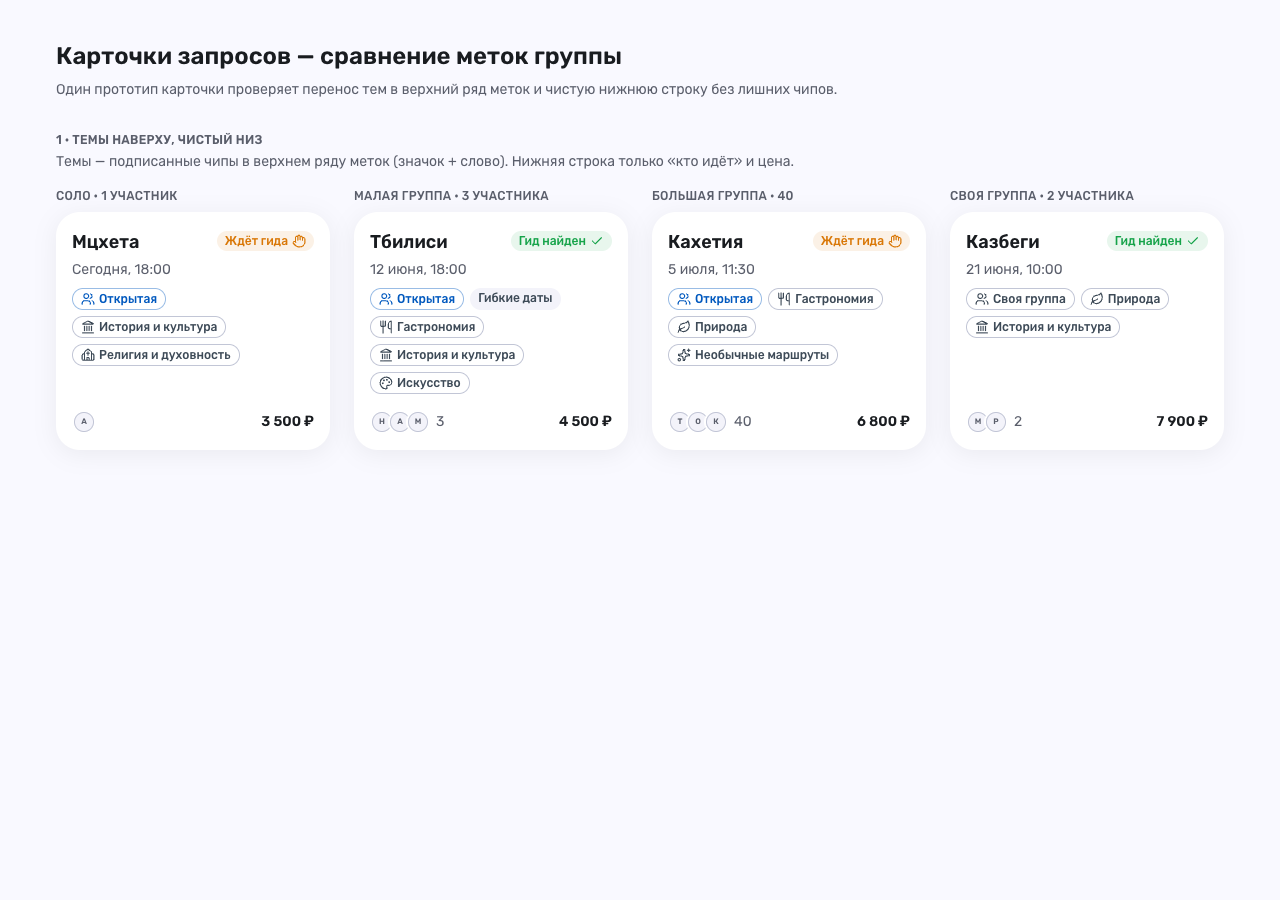
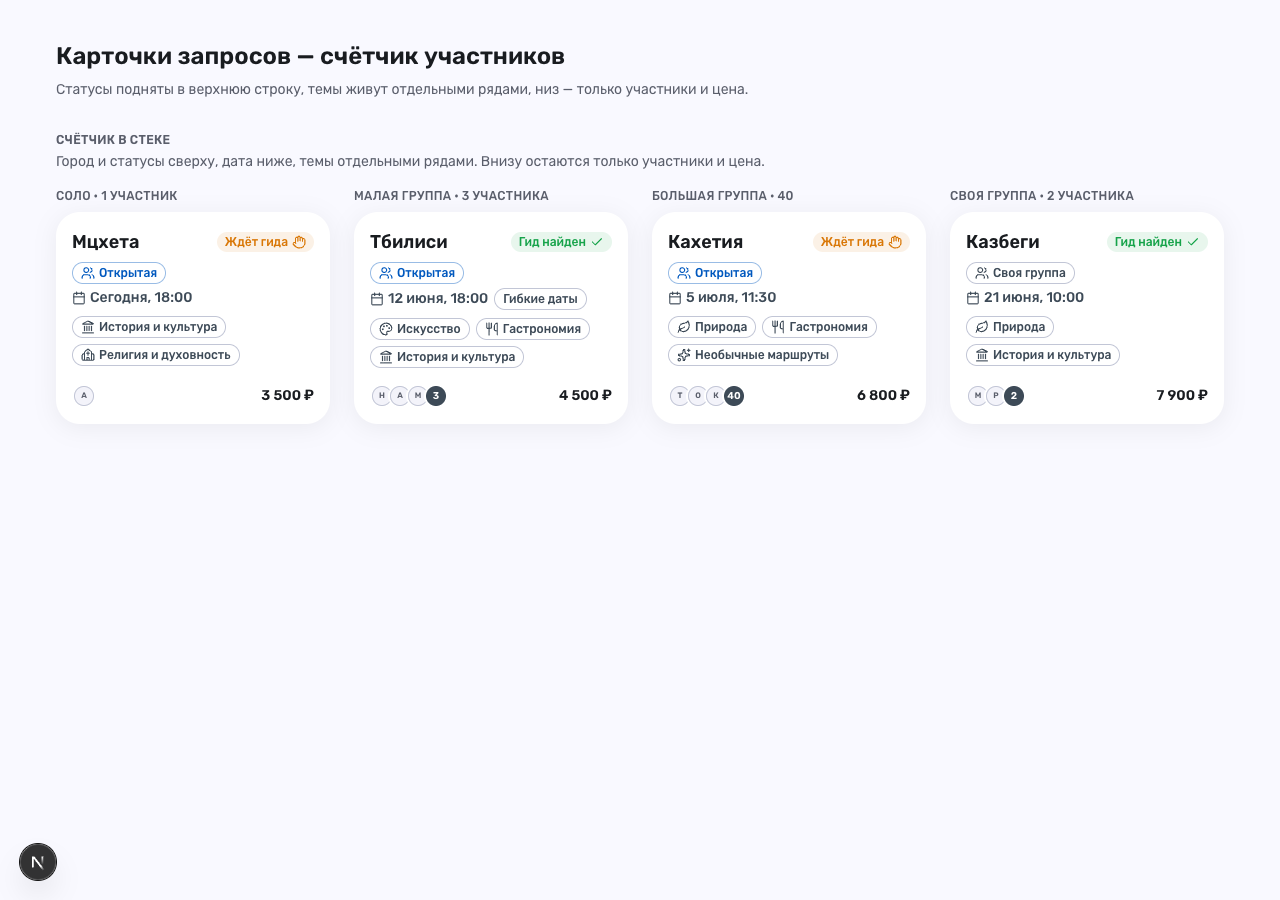
feat(request-card): transfer approved polygon styling to production card

diff --git a/src/components/shared/request-card-final.tsx b/src/components/shared/request-card-final.tsx
@@ -1,10 +1,8 @@
 import Link from "next/link";
-import { Check, Hand, Users } from "lucide-react";
+import { Calendar, Check, Hand, Users } from "lucide-react";
 
 import { Avatar, AvatarFallback, AvatarImage } from "@/components/ui/avatar";
-import { TooltipProvider } from "@/components/ui/tooltip";
 import { getTheme, type ThemeSlug } from "@/data/themes";
-import { ThemeIconChip } from "./theme-icon-chip";
 
 export type RequestCardFinalGroupType = "private" | "assembly";
 export type RequestCardFinalGuideState = "waiting" | "found";
@@ -29,7 +27,7 @@ export type RequestCardFinalProps = {
 };
 
 const datesFlexibleBadgeClassName =
-  "rounded-full bg-surface-low px-2 py-0.5 text-xs font-medium text-ink-2";
+  "inline-flex shrink-0 items-center whitespace-nowrap rounded-full border border-cyan-500/40 px-2 py-0.5 text-xs font-medium text-cyan-600";
 const groupTypeBadgeBaseClassName =
   "inline-flex items-center gap-1 whitespace-nowrap rounded-full px-2 py-0.5 text-xs font-medium";
 const groupTypeBadgeOutlineClassName = `${groupTypeBadgeBaseClassName} border border-border text-ink-2`;
@@ -38,12 +36,17 @@ const waitingGuideBadgeClassName =
   "inline-flex items-center gap-1 whitespace-nowrap rounded-full bg-warning/10 px-2 py-0.5 text-xs font-medium text-warning";
 const foundGuideBadgeClassName =
   "inline-flex items-center gap-1 whitespace-nowrap rounded-full bg-success/10 px-2 py-0.5 text-xs font-medium text-success";
+const themeLabelChipClassName =
+  "inline-flex items-center gap-1 whitespace-nowrap rounded-full border border-border px-2 py-0.5 text-xs font-medium text-ink-2";
 
 function getThemeSlugs(interests: readonly string[] | undefined): ThemeSlug[] {
   return (
     interests
-      ?.slice(0, 3)
-      .filter((slug): slug is ThemeSlug => getTheme(slug) != null) ?? []
+      ?.map((slug) => ({ slug, label: getTheme(slug)?.label }))
+      .filter((theme): theme is { slug: ThemeSlug; label: string } => Boolean(theme.label))
+      .sort((a, b) => a.label.length - b.label.length)
+      .slice(0, 3)
+      .map(({ slug }) => slug) ?? []
   );
 }
 
@@ -64,7 +67,7 @@ function GuideStatusBadge({ guideState }: { guideState: RequestCardFinalGuideSta
 }
 
 function getGroupLabel(groupType: RequestCardFinalGroupType) {
-  return groupType === "private" ? "Своя группа" : "Открытая";
+  return groupType === "private" ? "Своя группа" : "Сборная группа";
 }
 
 function GroupTypeBadge({ groupType }: { groupType: RequestCardFinalGroupType }) {
@@ -97,6 +100,23 @@ function AvatarStack({ members }: { members: readonly RequestCardFinalMember[] }
   );
 }
 
+function ThemeLabelChip({ slug }: { slug: ThemeSlug }) {
+  const theme = getTheme(slug);
+
+  if (!theme) {
+    return null;
+  }
+
+  const { Icon, label } = theme;
+
+  return (
+    <span className={themeLabelChipClassName}>
+      <Icon size={14} className="text-ink-2" aria-hidden="true" />
+      {label}
+    </span>
+  );
+}
+
 export function RequestCardFinal({
   href,
   location,
@@ -111,33 +131,36 @@ export function RequestCardFinal({
   const themeSlugs = getThemeSlugs(interests);
 
   return (
-    <article className="relative flex h-full flex-col rounded-card bg-surface-high p-4 shadow-card transition-transform hover:-translate-y-0.5">
-      <div className="absolute right-4 top-4">
-        <GuideStatusBadge guideState={guideState} />
-      </div>
-
+    <article className="flex h-full flex-col rounded-card bg-surface-high p-4 shadow-card transition-transform hover:-translate-y-0.5">
       <Link href={href} className="block focus-visible:outline-none focus-visible:ring-2 focus-visible:ring-ring">
-        <p className="truncate pr-24 text-lg font-semibold text-foreground">{location}</p>
-        <p className="mt-1 truncate text-sm text-muted-foreground">{date}</p>
-        <div className="mt-2 flex flex-wrap gap-1.5">
+        <div className="flex items-start justify-between gap-2">
+          <p className="min-w-0 truncate text-lg font-semibold leading-7 text-foreground">{location}</p>
+          <div className="flex h-7 shrink-0 items-center">
+            <GuideStatusBadge guideState={guideState} />
+          </div>
+        </div>
+
+        <div className="mt-1.5 flex justify-start">
           <GroupTypeBadge groupType={groupType} />
+        </div>
+
+        <div className="mt-1 flex flex-wrap items-center gap-1.5">
+          <span className="inline-flex min-w-0 items-center gap-1">
+            <Calendar size={14} className="shrink-0 text-ink-2" aria-hidden="true" />
+            <span className="min-w-0 truncate text-sm font-medium text-ink-2">{date}</span>
+          </span>
           {datesFlexible ? <span className={datesFlexibleBadgeClassName}>Гибкие даты</span> : null}
+        </div>
+
+        <div className="mt-2 flex flex-wrap gap-1.5">
+          {themeSlugs.map((slug) => (
+            <ThemeLabelChip key={slug} slug={slug} />
+          ))}
         </div>
       </Link>
 
       <div className="mt-auto flex items-center justify-between gap-3 pt-4">
-        <div className="flex min-w-0 items-center gap-2">
-          <AvatarStack members={members} />
-          {themeSlugs.length > 0 ? (
-            <TooltipProvider>
-              <div className="flex min-w-0 flex-wrap gap-1.5">
-                {themeSlugs.map((slug) => (
-                  <ThemeIconChip key={slug} slug={slug} />
-                ))}
-              </div>
-            </TooltipProvider>
-          ) : null}
-        </div>
+        <AvatarStack members={members} />
         <span className="shrink-0 whitespace-nowrap text-sm font-semibold text-foreground">{price}</span>
       </div>
     </article>

diff --git a/src/components/shared/request-card-final.test.tsx b/src/components/shared/request-card-final.test.tsx
@@ -1,4 +1,4 @@
-import { fireEvent, render, screen } from "@testing-library/react";
+import { render, screen } from "@testing-library/react";
 import { beforeAll, describe, expect, it, vi } from "vitest";
 
 import { RequestCardFinal } from "./request-card-final";
@@ -34,7 +34,7 @@ describe("RequestCardFinal", () => {
 
     expect(screen.getByRole("link", { name: /Кахетия/ })).toHaveAttribute("href", "/requests/kakheti");
     expect(screen.getByText("Гид найден").closest("span")).toHaveClass("bg-success/10", "text-success");
-    expect(screen.getByText("Открытая").closest("span")).toHaveClass("border-primary/40", "text-primary");
+    expect(screen.getByText("Сборная группа").closest("span")).toHaveClass("border-primary/40", "text-primary");
     expect(screen.getByText("Гибкие даты")).toBeInTheDocument();
     expect(screen.getByText("5 июля, 11:30")).toBeInTheDocument();
     expect(screen.queryByText(/2\s*\/\s*\d+/)).not.toBeInTheDocument();
@@ -43,15 +43,12 @@ describe("RequestCardFinal", () => {
     expect(price).toBeInTheDocument();
     expect(price).toHaveClass("shrink-0", "whitespace-nowrap");
 
-    const foodChip = screen.getByRole("button", { name: "Гастрономия" });
-    expect(foodChip).not.toHaveTextContent("Гастрономия");
+    const foodChip = screen.getByText("Гастрономия").closest("span");
+    expect(foodChip).toHaveClass("border", "border-border", "text-ink-2");
     const bottomRow = price.parentElement;
     expect(bottomRow).toContainElement(screen.getByTitle("Тамар"));
-    expect(bottomRow).toContainElement(foodChip);
-
-    fireEvent.click(foodChip);
-
-    expect(screen.getByRole("tooltip")).toHaveTextContent("Гастрономия");
+    expect(bottomRow).toContainElement(price);
+    expect(bottomRow).not.toContainElement(foodChip);
   });
 
   it("renders private waiting cards with the neutral group outline", () => {

diff --git a/src/features/homepage/components/homepage-discovery.test.tsx b/src/features/homepage/components/homepage-discovery.test.tsx
@@ -59,9 +59,9 @@ describe("HomePageDiscovery", () => {
     expect(within(article!).getByText("21 июня")).toBeInTheDocument();
     expect(within(article!).queryByText(/10:00/)).not.toBeInTheDocument();
     expect(within(article!).getByText("Ждёт гида")).toBeInTheDocument();
-    expect(within(article!).getByText("Открытая")).toBeInTheDocument();
+    expect(within(article!).getByText("Сборная группа")).toBeInTheDocument();
     expect(within(article!).getByText("Гибкие даты")).toBeInTheDocument();
-    expect(within(article!).getByRole("button", { name: "История и культура" })).toBeInTheDocument();
+    expect(within(article!).getByText("История и культура")).toBeInTheDocument();
     expect(within(article!).getByText(/7\s*900 ₽ \/ чел/)).toBeInTheDocument();
     expect(within(article!).queryByText(/3 ответа|ответов|ответа/)).not.toBeInTheDocument();
   });

diff --git a/src/features/requests/components/public-requests-marketplace-screen.test.tsx b/src/features/requests/components/public-requests-marketplace-screen.test.tsx
@@ -61,10 +61,10 @@ describe("PublicRequestsMarketplaceScreen", () => {
     expect(within(article!).getByText("Казань")).toBeInTheDocument();
     expect(within(article!).getByText("12 июня")).toBeInTheDocument();
     expect(within(article!).getByText("Гид найден")).toBeInTheDocument();
-    expect(within(article!).getByText("Открытая")).toBeInTheDocument();
+    expect(within(article!).getByText("Сборная группа")).toBeInTheDocument();
     expect(within(article!).getByText(/4\s*500 ₽ \/ чел/)).toBeInTheDocument();
     expect(
-      within(article!).getByRole("button", { name: "История и культура" }),
+      within(article!).getByText("История и культура"),
     ).toBeInTheDocument();
     expect(within(article!).queryByText(/2\s*\/\s*6/)).not.toBeInTheDocument();
     expect(within(article!).queryByText("2 участников")).not.toBeInTheDocument();